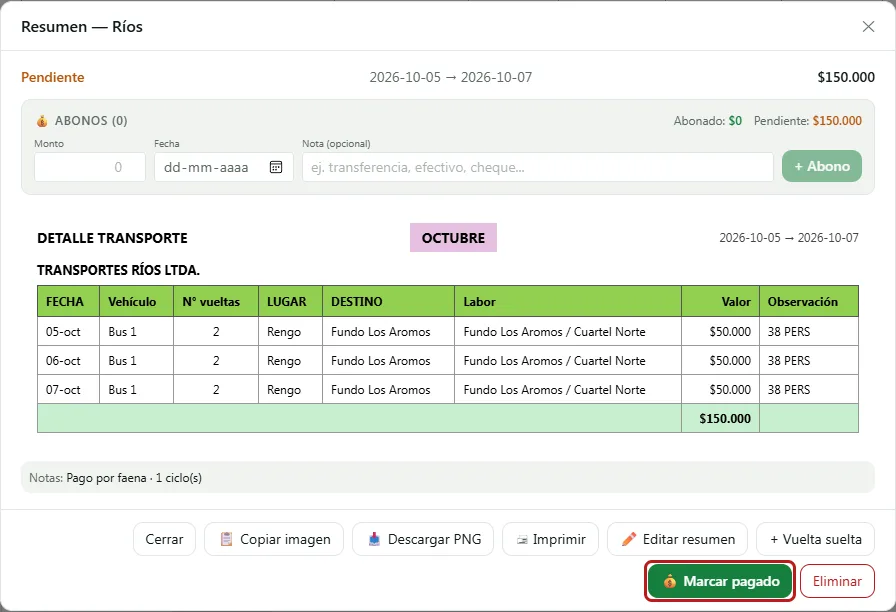
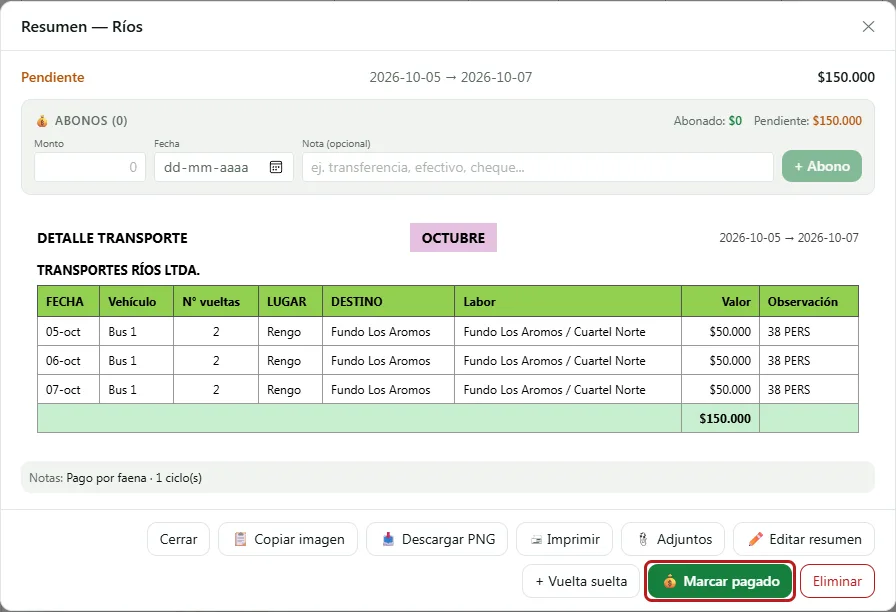
attachmentHelpGuides

diff --git a/src/screens/help/guides.test.js b/src/screens/help/guides.test.js
@@ -110,6 +110,9 @@ describe("preguntas típicas", () => {
     ["agregar vueltas a un resumen ya creado", "pagar-transportes#agregar-vueltas-que-llegaron-despues-del-resumen-o-la-quincena"],
     ["se me olvidó una vuelta en la quincena", "pagar-transportes#agregar-vueltas-que-llegaron-despues-del-resumen-o-la-quincena"],
     ["agregar un resumen a la quincena", "pagar-transportes#agregar-vueltas-que-llegaron-despues-del-resumen-o-la-quincena"],
+    ["adjuntar la factura del transportista", "pagar-transportes#adjuntar-los-comprobantes"],
+    ["comprobante del abono al transportista", "pagar-transportes#adjuntar-los-comprobantes"],
+    ["qué es un adjunto", "glosario#adjunto-y-visor"],
     ["cómo importo las facturas del SII", "facturacion#importar-el-registro-del-sii"],
     ["marcar una factura pagada", "facturacion#marcar-si-una-factura-esta-pagada"],
     ["abono a una factura", "facturacion#anotar-un-pago-o-un-abono"],
@@ -121,6 +124,8 @@ describe("preguntas típicas", () => {
     ["cheque protestado", "cheques-y-pagos#aplazar-protestar-reprogramar-o-anular"],
     ["pagué con intereses", "cheques-y-pagos#marcar-un-pago-o-un-cheque-cobrado"],
     ["cuándo terminamos de pagar el crédito", "cheques-y-pagos#el-informe-de-deudas"],
+    ["subir la foto del cheque", "cheques-y-pagos#adjuntar-la-foto-de-un-cheque-un-comprobante-o-una-factura"],
+    ["adjuntar la factura de un pago", "cheques-y-pagos#adjuntar-la-foto-de-un-cheque-un-comprobante-o-una-factura"],
     ["apuntar el qr al ciclo nuevo", "cosecha-qr#apuntar-un-prefijo-al-ciclo"],
     ["pasar la cosecha a la grilla", "cosecha-qr#pasar-los-pesajes-a-la-grilla"],
     ["darle un qr a un trabajador", "cosecha-qr#asignar-un-qr-a-un-trabajador"],
@@ -131,6 +136,7 @@ describe("preguntas típicas", () => {
     ["importar contactos de google", "agenda-precios-y-links#agregar-o-importar-contactos"],
     ["cuánto se cobró por la cosecha", "agenda-precios-y-links#el-libro-de-precios"],
     ["portal de trabajadores", "nomina#la-nomina-en-el-portal-de-trabajadores"],
+    ["adjuntar el comprobante de la nómina", "nomina#adjuntar-los-comprobantes-del-pago"],
     ["dar acceso a alguien", "administracion#dar-acceso-a-una-persona"],
     ["suspender a un usuario", "administracion#hacer-admin-o-suspender-a-alguien"],
     ["quién cambió esto", "administracion#ver-quien-cambio-algo"],

diff --git a/src/screens/help/guides/cheques-y-pagos.md b/src/screens/help/guides/cheques-y-pagos.md
@@ -50,6 +50,24 @@ El formulario muestra los vencimientos que va a crear. Toca **Crear N vencimient
 
 Si fue un error, **⋯** y **↶ Volver a pendiente** lo deshace.
 
+## Adjuntar la foto de un cheque, un comprobante o una factura
+<!-- preguntas: adjuntar un comprobante; subir la foto del cheque; adjuntar una factura; adjuntar la factura de un pago; adjuntar un archivo a un vencimiento; guardar el comprobante de pago; adjuntar un pdf; sacar una foto al cheque; pegar una imagen de whatsapp; ver los archivos de un pago; quitar un adjunto -->
+
+1. En la fila, toca **⋯** y **📎 Adjuntos**.
+2. Toca **📎 Elegir archivos**, arrastra los archivos al recuadro o pega una imagen con **Ctrl+V**, como una copiada de WhatsApp Web. En el teléfono, **📷 Sacar foto** abre la cámara y **📋 Pegar imagen** pega la que copiaste.
+
+Cada archivo se sube apenas lo eliges: no hay que guardar.
+
+![Los adjuntos de un cheque recibido](help/cheques-y-pagos/08-adjuntos.webp)
+
+- Se adjuntan fotos, imágenes y PDF, de hasta 10 MB. Las fotos se achican antes de subirlas. Un Word o un Excel se guarda primero como PDF.
+- La fila muestra **📎** con la cantidad de adjuntos, y tocarlo también los abre.
+- **✕** quita un adjunto y borra el archivo. Eliminar el vencimiento borra también sus adjuntos.
+
+Al tocar un adjunto se abre el visor, con la imagen ajustada a la pantalla (un clic la muestra en tamaño real) o el PDF. **‹** y **›**, las flechas del teclado o deslizar en el teléfono pasan al siguiente, y **↗ Abrir** lo abre en otra pestaña. En el teléfono, un PDF se ve con **↗ Abrir el PDF**.
+
+![El visor de adjuntos](help/cheques-y-pagos/09-visor.webp)
+
 ## Aplazar, protestar, reprogramar o anular
 <!-- preguntas: aplazar un pago; cheque protestado; cheque rechazado; cambiar la fecha de un pago; anular un cheque; reprogramar un pago -->
 
@@ -59,6 +77,7 @@ En el menú **⋯** de cada fila:
 - **⚠ Protestado**: el banco rechazó el cheque. Se sigue debiendo, o cobrando.
 - **📅 Reprogramar**: le pone una fecha nueva a uno aplazado o protestado, y lo vuelve a pendiente.
 - **🚫 Anular**: ya no se va a pagar.
+- **💵 Abonos** y **📎 Adjuntos**: ver [Abonar a una deuda personal](/ayuda/cheques-y-pagos#abonar-a-una-deuda-personal) y [Adjuntar la foto de un cheque, un comprobante o una factura](/ayuda/cheques-y-pagos#adjuntar-la-foto-de-un-cheque-un-comprobante-o-una-factura).
 - **✏ Editar** y **🗑 Eliminar**. Para cambiar la fecha de uno pendiente, edítalo.
 
 ![El menú de un pago](help/cheques-y-pagos/05-menu.webp)
@@ -101,10 +120,12 @@ Nada se guarda hasta **Guardar**, y lo pagado no se toca.
 Cada mañana, a las 8:00, TeRRa manda un correo con lo que vence en los próximos días (por defecto, en 3 días, en 1 y el mismo día), lo vencido sin marcar y los próximos 7 días. Si no hay nada que avisar, no manda nada. A quién le llega y con cuántos días de anticipación lo decide un administrador.
 
 ## Si algo no funciona
-<!-- preguntas: me sigue avisando un pago que ya pagué; el vencido aparece todos los días; la misma contraparte sale dos veces; no puedo quitar un abono -->
+<!-- preguntas: me sigue avisando un pago que ya pagué; el vencido aparece todos los días; la misma contraparte sale dos veces; no puedo quitar un abono; no puedo adjuntar un word; no tengo permiso para subir el archivo -->
 
 - **Sigue avisando algo que ya se pagó**: márcalo pagado. Todo lo pendiente con la fecha pasada cuenta como vencido.
 - **Un vencido que no se va a pagar todavía aparece todos los días**: aplázalo.
 - **La misma contraparte sale dos veces en el informe**: está escrita distinto. Edita una y usa el mismo nombre.
 - **No deja quitar un abono**: la deuda se marcó pagada a mano. Vuélvela a pendiente primero.
 - **Un vencimiento eliminado de un pago recurrente no vuelve**: así es, para que no reaparezca. Si hacía falta, agrégalo a mano.
+- **No deja adjuntar un Word o un Excel**: guárdalo como PDF y adjunta el PDF.
+- **Al adjuntar dice "No tienes permiso…"**: recarga la página y vuelve a intentarlo. Si sigue, pídele a un administrador que revise tu cuenta en Usuarios.

diff --git a/src/screens/help/guides/nomina.md b/src/screens/help/guides/nomina.md
@@ -62,7 +62,7 @@ Cada fila muestra el estado, cuántas personas, lo de banco, lo de efectivo y el
 
 - **Solo transferencias**: ver "Pagar en dos tiempos".
 - **Mover a Diferencias** (o a Nóminas) y **Renombrar**.
-- **Eliminar**: borra la nómina, libera sus días (vuelven a quedar pendientes) y devuelve los anticipos. Si no se puede, dice qué hacer antes.
+- **Eliminar**: borra la nómina y sus adjuntos, libera sus días (vuelven a quedar pendientes) y devuelve los anticipos. Si no se puede, dice qué hacer antes.
 
 ## El detalle de una nómina
 <!-- preguntas: ver el detalle de la nómina; cuánto efectivo tengo que sacar; billetes y monedas; resumen por subfaena; copiar el resumen de la nómina; total bruto de la nómina; cuánto se produjo antes de anticipos; quién editó la nómina; cuándo se modificó la nómina -->
@@ -74,7 +74,7 @@ Cada fila muestra el estado, cuántas personas, lo de banco, lo de efectivo y el
 - La tabla del resumen, por subfaena (**Sin labores**) o por subfaena y labor (**Con labores**), con **Copiar**, **Descargar** e **Imprimir**.
 - Más abajo, los ciclos de la nómina y las personas por líder, de banco y de efectivo.
 - Arriba, bajo el nombre, cuándo se editó por última vez y quién.
-- Arriba, **Editar contenido** y **Recalcular** sirven para corregirla (ver la guía [Corregir una nómina](/ayuda/corregir-nomina)).
+- Arriba, **Editar contenido** y **Recalcular** sirven para corregirla (ver la guía [Corregir una nómina](/ayuda/corregir-nomina)), y **📎 Adjuntos** guarda los comprobantes del pago (ver [Adjuntar los comprobantes del pago](/ayuda/nomina#adjuntar-los-comprobantes-del-pago)).
 
 ## Descargar el archivo del banco
 <!-- preguntas: cómo descargo el archivo del banco; subir la nómina al banco; descargar el excel de la nómina; archivo para transferencias -->
@@ -121,6 +121,22 @@ Cuando salen las transferencias pero el efectivo se entrega después:
 3. Cuando se entrega el efectivo, toca **💵 Pagar efectivo** en el historial.
 
 Mientras se debe, el efectivo aparece en **Generar** (**💵 Efectivo pendiente de antes**) y se puede sumar en **Estimar efectivo**, para llevar todo junto. Con las transferencias selladas la nómina no se puede editar ni eliminar; **⋯ → Revertir transferencias** lo deshace.
+
+## Adjuntar los comprobantes del pago
+<!-- preguntas: adjuntar el comprobante de la nómina; subir el comprobante del banco; adjuntar la cartola; adjuntar los comprobantes firmados; dónde guardo el archivo de la nómina pagada; ver los comprobantes de una nómina -->
+
+Una nómina guarda los archivos que respaldan su pago: el comprobante de las transferencias que entrega el banco, la cartola o la foto de los comprobantes de efectivo firmados.
+
+1. Abre el detalle de la nómina y toca **📎 Adjuntos**, a la derecha de la fila de botones de arriba.
+2. Toca **📎 Elegir archivos**, arrastra los archivos al recuadro o pega una imagen con **Ctrl+V**. En el teléfono, **📷 Sacar foto** abre la cámara.
+
+Cada archivo se sube apenas lo eliges, también con la nómina ya pagada. Se adjuntan fotos, imágenes y PDF, de hasta 10 MB.
+
+![Los comprobantes de una nómina pagada](help/nomina/11-adjuntos.webp)
+
+- En el historial, la nómina muestra **📎** con la cantidad de adjuntos.
+- Al tocar un adjunto se abre el visor, y **✕** lo quita. El visor y los archivos que se aceptan funcionan igual que en Cheques y pagos (ver [Adjuntar la foto de un cheque, un comprobante o una factura](/ayuda/cheques-y-pagos#adjuntar-la-foto-de-un-cheque-un-comprobante-o-una-factura)).
+- **🕘 Historial**, arriba en el detalle, anota lo que se adjuntó y lo que se quitó. Eliminar la nómina borra también sus adjuntos.
 
 ## La nómina en el portal de trabajadores
 <!-- preguntas: portal de trabajadores; publicar la nómina en el portal; los trabajadores ven su pago; cuál nómina está en el portal; qué es el ícono del portal -->

diff --git a/src/screens/help/guides/pagar-transportes.md b/src/screens/help/guides/pagar-transportes.md
@@ -29,6 +29,7 @@ Al tocar un resumen se abre su detalle, con sus vueltas:
 
 - **📋 Copiar imagen**, **📥 Descargar PNG** e **🖨 Imprimir** lo dejan listo para mandárselo al transportista.
 - **✏ Editar resumen** permite corregir una vuelta (vueltas y tarifa) o quitarla. **+ Vuelta suelta** suma una pendiente que quedó afuera.
+- **📎 Adjuntos** guarda la factura y los comprobantes (ver [Adjuntar los comprobantes](/ayuda/pagar-transportes#adjuntar-los-comprobantes)).
 - **💰 Marcar pagado** paga un resumen que no está en ninguna quincena (ver [Pagar un resumen suelto](/ayuda/pagar-transportes#pagar-un-resumen-suelto)).
 - **Eliminar** borra el resumen; sus vueltas vuelven a quedar sueltas. Uno que está en una quincena primero se saca de ella.
 - **🖨 Imprimir varios**, en **Resúmenes**, imprime o descarga varios de una vez.
@@ -56,7 +57,30 @@ En el detalle de un resumen pendiente, **💰 Abonos** anota lo que ya se le pag
 
 ![Un abono en el resumen](help/pagar-transportes/05-abono.webp)
 
-Arriba se ven lo **Abonado** y lo **Pendiente**, y lo que se copia o imprime cierra con el **PENDIENTE**. Cada abono se corrige con ✏ o se quita con ✕ mientras el resumen no esté pagado.
+Arriba se ven lo **Abonado** y lo **Pendiente**, y lo que se copia o imprime cierra con el **PENDIENTE**. Cada abono se corrige con ✏ o se quita con ✕ mientras el resumen no esté pagado, y su **📎** guarda el comprobante (ver [Adjuntar los comprobantes](/ayuda/pagar-transportes#adjuntar-los-comprobantes)).
+
+## Adjuntar los comprobantes
+<!-- preguntas: adjuntar el comprobante de un abono; adjuntar la factura del transportista; subir la transferencia al transportista; guardar el comprobante de pago del transporte; ver los archivos de un transportista; dónde están las facturas del transportista -->
+
+Un resumen guarda sus comprobantes y archivos, como la factura del transportista o la transferencia de cada abono.
+
+- **El comprobante de un abono**: en **💰 Abonos**, toca el **📎** de ese abono. Lo que se sube ahí queda con ese abono.
+
+![El 📎 de un abono](help/pagar-transportes/14-adjunto-abono.webp)
+
+- **Lo demás, como la factura**: toca **📎 Adjuntos**, al pie del detalle del resumen. Ahí están todos los archivos del resumen, cada uno con el abono que respalda.
+
+En los dos, toca **📎 Elegir archivos**, arrastra los archivos al recuadro o pega una imagen con **Ctrl+V**, como una copiada de WhatsApp Web. En el teléfono, **📷 Sacar foto** abre la cámara. Cada archivo se sube apenas lo eliges.
+
+![Los adjuntos de un resumen](help/pagar-transportes/15-adjuntos-resumen.webp)
+
+- Se adjunta también con el resumen pagado.
+- Al quitar un abono, sus archivos quedan en el resumen.
+- Al tocar un adjunto se abre el visor, y **✕** lo quita. El visor y los archivos que se aceptan funcionan igual que en Cheques y pagos (ver [Adjuntar la foto de un cheque, un comprobante o una factura](/ayuda/cheques-y-pagos#adjuntar-la-foto-de-un-cheque-un-comprobante-o-una-factura)).
+
+**Todos los archivos de un transportista**: en **Transportistas**, toca su tarjeta y, en su resumen, **📎 Archivos**. Los junta por resumen, del más nuevo al más viejo, y el visor los recorre seguidos.
+
+![Los archivos de un transportista](help/pagar-transportes/16-archivos-transportista.webp)
 
 ## Armar la quincena
 <!-- preguntas: crear una quincena; nueva quincena de transporte; juntar los resúmenes para pagar; quincena de los buses -->

diff --git a/docs/screens/help.md b/docs/screens/help.md
@@ -53,8 +53,9 @@ Cuando un cambio de interfaz en una de estas pantallas está aprobado, en su fun
 
 ## Las capturas
 
-- Se generan, no se sacan a mano: **`npm run help:shots`** (con `HELP_GUIDES=<id>,<id>` solo esas guías). Levanta los emuladores de Firestore y Authentication (`emulators:exec`), arranca Vite contra ellos con un proyecto `demo-` y, para cada guía, vacía la base, siembra los datos de demo y corre su guion con Playwright sobre el Edge o el Chrome instalados (`HELP_BROWSER` para otra ruta). Necesita JDK 21 (por los emuladores) y las dependencias de `functions/` (la semilla usa `firebase-admin`).
+- Se generan, no se sacan a mano: **`npm run help:shots`** (con `HELP_GUIDES=<id>,<id>` solo esas guías). Levanta los emuladores de Firestore, Authentication y Storage (`emulators:exec`), arranca Vite contra ellos con un proyecto `demo-` y, para cada guía, vacía la base, siembra los datos de demo y corre su guion con Playwright sobre el Edge o el Chrome instalados (`HELP_BROWSER` para otra ruta). Necesita JDK 21 (por los emuladores) y las dependencias de `functions/` (la semilla usa `firebase-admin`).
 - `scripts/help/seed.mjs`: una faena, un ciclo de cinco días y siete personas, todo inventado (el repo es público). Solo escribe en los emuladores. Cada guía parte de esos datos, así sus capturas salen iguales se genere sola o con las demás; lo que necesita además (como el ciclo con una labor de cada tipo, `seedLaborTypes`) lo siembra su guion al empezar.
+- La cuenta de demo lleva la marca de acceso (`appAccess`), así los guiones suben adjuntos al emulador de Storage. Los archivos que suben (la foto de un comprobante, la de un cheque y un PDF) los arma `scripts/help/demoFiles.mjs`, inventados, y `attachFiles` (`lib.mjs`) los sube desde el modal de adjuntos.
 - `scripts/help/guides/<guía>.mjs`: hace el flujo por la interfaz con clics reales y saca una captura por paso. Si un paso ya no existe en la pantalla, el guion falla y avisa que la guía quedó vieja; la pantalla al fallar queda en la carpeta temporal del sistema.
 - `scripts/help/lib.mjs`: fecha fija (`page.clock`, 9 de octubre de 2026), tema claro, la versión del encabezado sin número, el mouse fuera de la zona, un borde (y un número, si son varios) sobre lo que hay que tocar, y el recorte del elemento o de varios a la vez. Guarda WebP (con `sharp`) en `public/help/<guía>/` y anota el ancho y alto en `imageSizes.json`. Regenerar una guía borra antes su carpeta.
 - Las capturas **no se precargan**: `globIgnores: ['help/**']` en la PWA (`vite.config.js`). Cada una se baja al abrir su guía, y después queda en la caché del navegador.

diff --git a/src/screens/help/guides/glosario.md b/src/screens/help/guides/glosario.md
@@ -160,6 +160,14 @@ Ver [Facturación](/ayuda/facturacion).
 
 Ver [Cheques y pagos](/ayuda/cheques-y-pagos).
 
+## Adjunto y visor
+<!-- preguntas: qué es un adjunto; qué es el visor; qué archivos se pueden adjuntar; dónde quedan los comprobantes -->
+
+- **Adjunto**: una foto o un PDF guardado con un vencimiento de Cheques y pagos, una nómina o un resumen de transporte, como un comprobante, una factura o la foto de un cheque.
+- **Visor**: la ventana que muestra un adjunto en grande, sin salir de TeRRa.
+
+Ver [Adjuntar la foto de un cheque, un comprobante o una factura](/ayuda/cheques-y-pagos#adjuntar-la-foto-de-un-cheque-un-comprobante-o-una-factura), [Adjuntar los comprobantes del pago](/ayuda/nomina#adjuntar-los-comprobantes-del-pago) y [Adjuntar los comprobantes](/ayuda/pagar-transportes#adjuntar-los-comprobantes).
+
 ## Agenda, cuentas y Libro de Precios
 <!-- preguntas: qué es el libro de precios; qué es la agenda; qué son las cuentas; para qué sirve agenda y cuentas -->
 

diff --git a/src/screens/help/guides/transportes.md b/src/screens/help/guides/transportes.md
@@ -74,6 +74,7 @@ Al tocar la tarjeta de un transportista se abre su resumen: una fila por quincen
 
 - **Incluir pagados** suma lo ya pagado en un rango de fechas; **🚚 Detalle de quincenas** muestra también las vueltas de cada quincena.
 - **📋 Copiar imagen**, **📥 Descargar PNG** e **🖨 Imprimir** lo comparten tal como se ve.
+- **📎 Archivos** junta las facturas y los comprobantes de todos sus resúmenes y abonos (ver [Adjuntar los comprobantes](/ayuda/pagar-transportes#adjuntar-los-comprobantes)).
 
 ## Si algo no funciona
 <!-- preguntas: no aparece el transportista; no puedo editar una vuelta; no aparece el vehículo -->
